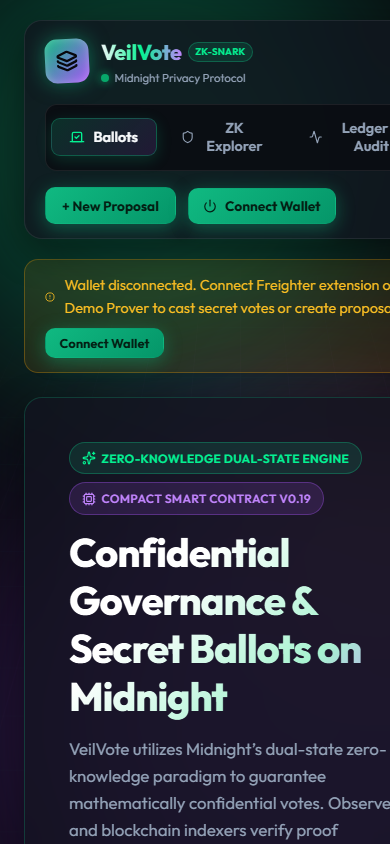
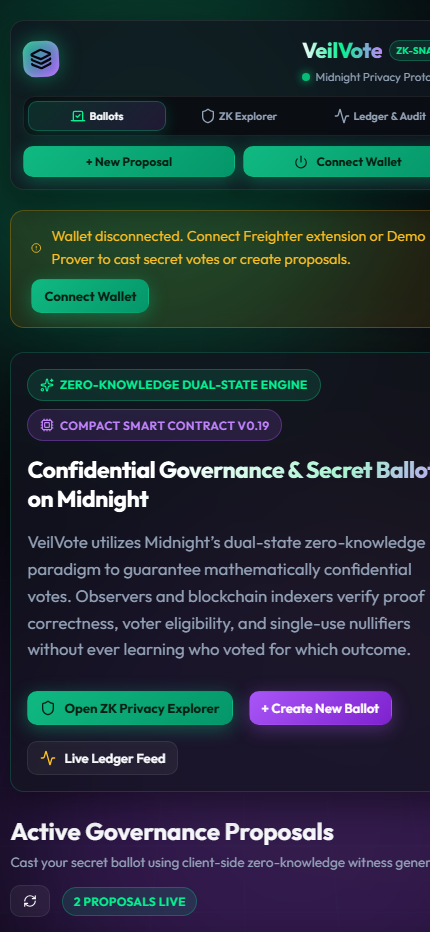
docs: add dedicated demo video walkthrough link space and fix mobile responsive screenshot formatting

diff --git a/frontend/src/index.css b/frontend/src/index.css
@@ -375,3 +375,142 @@ body {
   animation: pulseGlow 2s infinite ease-in-out;
 }
 
+/* Navbar Layout */
+.navbar-header {
+  margin: 1.25rem auto;
+  padding: 0.85rem 1.25rem;
+  display: flex;
+  align-items: center;
+  justify-content: space-between;
+  flex-wrap: wrap;
+  gap: 1rem;
+}
+
+.navbar-brand-section {
+  display: flex;
+  align-items: center;
+  gap: 0.75rem;
+  cursor: pointer;
+}
+
+.navbar-actions-section {
+  display: flex;
+  align-items: center;
+  gap: 0.75rem;
+  flex-wrap: wrap;
+}
+
+html, body {
+  overflow-x: hidden !important;
+  max-width: 100vw;
+  width: 100%;
+}
+
+#root {
+  overflow-x: hidden !important;
+  max-width: 100vw;
+  width: 100%;
+}
+
+.hero-banner-card {
+  padding: 2.75rem;
+  margin: 1.25rem 0 2rem 0;
+  position: relative;
+  overflow: hidden;
+  border: 1px solid rgba(16, 185, 129, 0.25);
+}
+
+/* Mobile Responsive Optimization */
+@media (max-width: 640px) {
+  body {
+    font-size: 14px;
+  }
+
+  .container {
+    padding-left: 0.65rem !important;
+    padding-right: 0.65rem !important;
+    width: 100% !important;
+    max-width: 100% !important;
+  }
+
+  .hero-banner-card {
+    padding: 1.15rem 0.85rem !important;
+    margin: 0.75rem 0 1.25rem 0 !important;
+  }
+
+  .glass-panel {
+    padding: 1rem !important;
+    border-radius: 14px !important;
+  }
+
+  .navbar-header {
+    display: flex !important;
+    flex-direction: column !important;
+    gap: 0.65rem !important;
+    padding: 0.75rem !important;
+  }
+
+  .navbar-brand-section {
+    display: flex !important;
+    align-items: center !important;
+    justify-content: space-between !important;
+    width: 100% !important;
+  }
+
+  .brand-icon-3d {
+    width: 36px !important;
+    height: 36px !important;
+    flex-shrink: 0;
+  }
+
+  .nav-tabs-container {
+    display: grid !important;
+    grid-template-columns: repeat(3, 1fr) !important;
+    width: 100% !important;
+    gap: 0.2rem !important;
+    padding: 0.2rem !important;
+  }
+
+  .nav-tab-btn {
+    padding: 0.4rem 0.15rem !important;
+    font-size: 0.68rem !important;
+    gap: 0.2rem !important;
+    justify-content: center !important;
+  }
+
+  .nav-tab-btn span {
+    font-size: 0.68rem !important;
+  }
+
+  .navbar-actions-section {
+    display: flex !important;
+    width: 100% !important;
+    gap: 0.5rem !important;
+  }
+
+  .navbar-actions-section button {
+    flex: 1 !important;
+    padding: 0.45rem 0.5rem !important;
+    font-size: 0.76rem !important;
+    justify-content: center !important;
+  }
+
+  .hero-banner-title {
+    font-size: 1.45rem !important;
+    line-height: 1.25 !important;
+    word-break: break-word !important;
+  }
+
+  .proposal-grid {
+    grid-template-columns: 1fr !important;
+  }
+
+  .btn {
+    padding: 0.5rem 0.75rem !important;
+    font-size: 0.82rem !important;
+  }
+}
+
+
+
+

diff --git a/frontend/src/App.tsx b/frontend/src/App.tsx
@@ -192,7 +192,7 @@ export function App() {
         {activeTab === 'proposals' && (
           <>
             {/* Hero Banner with 3D Depth */}
-            <div className="glass-panel" style={{ padding: '2.75rem', margin: '1.25rem 0 2rem 0', position: 'relative', overflow: 'hidden', border: '1px solid rgba(16, 185, 129, 0.25)' }}>
+            <div className="glass-panel hero-banner-card">
               <div style={{ position: 'relative', zIndex: 1, maxWidth: '820px' }}>
                 <div style={{ display: 'flex', alignItems: 'center', gap: '0.5rem', marginBottom: '0.85rem', flexWrap: 'wrap' }}>
                   <span className="badge badge-active" style={{ padding: '0.35rem 0.75rem' }}>
@@ -203,7 +203,7 @@ export function App() {
                   </span>
                 </div>
 
-                <h1 style={{ fontSize: '2.5rem', fontWeight: 800, letterSpacing: '-0.03em', lineHeight: 1.2, marginBottom: '1rem', background: 'linear-gradient(135deg, #ffffff 30%, #a7f3d0 70%, #c084fc 100%)', WebkitBackgroundClip: 'text', WebkitTextFillColor: 'transparent' }}>
+                <h1 className="hero-banner-title" style={{ fontSize: '2.5rem', fontWeight: 800, letterSpacing: '-0.03em', lineHeight: 1.2, marginBottom: '1rem', background: 'linear-gradient(135deg, #ffffff 30%, #a7f3d0 70%, #c084fc 100%)', WebkitBackgroundClip: 'text', WebkitTextFillColor: 'transparent' }}>
                   Confidential Governance & Secret Ballots on Midnight
                 </h1>
 
@@ -262,7 +262,7 @@ export function App() {
                   Loading Midnight ledger state...
                 </div>
               ) : (
-                <div style={{ display: 'grid', gridTemplateColumns: 'repeat(auto-fit, minmax(480px, 1fr))', gap: '1.5rem' }}>
+                <div className="proposal-grid" style={{ display: 'grid', gridTemplateColumns: 'repeat(auto-fit, minmax(min(100%, 460px), 1fr))', gap: '1.5rem' }}>
                   {proposals.map((prop) => (
                     <ProposalCard
                       key={prop.id}
@@ -287,7 +287,7 @@ export function App() {
             </div>
 
             {/* Quick Explore Banner Cards */}
-            <div style={{ display: 'grid', gridTemplateColumns: 'repeat(auto-fit, minmax(350px, 1fr))', gap: '1.25rem', marginTop: '1rem' }}>
+            <div style={{ display: 'grid', gridTemplateColumns: 'repeat(auto-fit, minmax(min(100%, 300px), 1fr))', gap: '1.25rem', marginTop: '1rem' }}>
               <div
                 className="glass-panel"
                 style={{ padding: '1.5rem', cursor: 'pointer', border: '1px solid rgba(168, 85, 247, 0.25)' }}

diff --git a/frontend/src/components/Navbar.tsx b/frontend/src/components/Navbar.tsx
@@ -47,18 +47,18 @@ export const Navbar: React.FC<NavbarProps> = ({
 
   return (
     <>
-      <header className="glass-panel" style={{ margin: '1.25rem auto', padding: '0.85rem 1.25rem', display: 'flex', alignItems: 'center', justifyContent: 'space-between', flexWrap: 'wrap', gap: '1rem' }}>
+      <header className="glass-panel navbar-header">
         
         {/* Brand with 3D Icon */}
-        <div style={{ display: 'flex', alignItems: 'center', gap: '0.75rem', cursor: 'pointer' }} onClick={() => onTabChange('proposals')}>
+        <div className="navbar-brand-section" onClick={() => onTabChange('proposals')}>
           <div className="brand-icon-3d">
             <Layers size={22} color="#07080d" strokeWidth={2.5} />
           </div>
           <div>
             <div style={{ display: 'flex', alignItems: 'center', gap: '0.4rem' }}>
-              <h1 style={{ fontSize: '1.35rem', fontWeight: 800, letterSpacing: '-0.02em', background: 'linear-gradient(90deg, #f8fafc, #05f292, #c084fc)', WebkitBackgroundClip: 'text', WebkitTextFillColor: 'transparent', margin: 0 }}>
+              <span style={{ fontSize: '1.35rem', fontWeight: 800, letterSpacing: '-0.02em', background: 'linear-gradient(90deg, #f8fafc, #05f292, #c084fc)', WebkitBackgroundClip: 'text', WebkitTextFillColor: 'transparent', margin: 0 }}>
                 VeilVote
-              </h1>
+              </span>
               <span className="badge badge-active" style={{ fontSize: '0.6rem', padding: '0.1rem 0.4rem' }}>
                 ZK-SNARK
               </span>
@@ -103,7 +103,7 @@ export const Navbar: React.FC<NavbarProps> = ({
         </div>
 
         {/* Controls */}
-        <div style={{ display: 'flex', alignItems: 'center', gap: '0.75rem', flexWrap: 'wrap' }}>
+        <div className="navbar-actions-section">
           <button onClick={onOpenCreateModal} className="btn btn-primary" id="btn-create-proposal" style={{ padding: '0.55rem 1rem', fontSize: '0.85rem' }}>
             + New Proposal
           </button>

diff --git a/README.md b/README.md
@@ -29,11 +29,21 @@
 | **1. Public GitHub Repository** | [github.com/ayush-tech3/midnight-privacy-dapp](https://github.com/ayush-tech3/midnight-privacy-dapp) | ✅ Active & Public |
 | **2. Minimum Meaningful Commits** | [15+ Commits on `main`](https://github.com/ayush-tech3/midnight-privacy-dapp/commits/main) | ✅ 15+ Commits |
 | **3. Live Production Application** | **[midnightprivacydevlop.netlify.app](https://midnightprivacydevlop.netlify.app/)** | ✅ Live & Production Ready |
-| **4. Automated Tests Passing (3+ Required)** | [8/8 Passing Tests Table ⬇](#-automated-test-suite-8-passing-tests) | ✅ 8 Tests Passing (100%) |
-| **5. CI/CD Workflow with Passing Runs** | [`.github/workflows/ci.yml`](.github/workflows/ci.yml) | ✅ GitHub Actions Passing |
-| **6. Privacy Model Whitepaper** | [`docs/PRIVACY_MODEL.md`](docs/PRIVACY_MODEL.md) | ✅ Complete Privacy Analysis |
-| **7. Product Proposal** | [`docs/PRODUCT_PROPOSAL.md`](docs/PRODUCT_PROPOSAL.md) | ✅ Full Approved Proposal |
-| **8. Multi-Wallet Integration** | Real Freighter Extension + Demo Shielded Prover | ✅ Fully Integrated |
+| **4. Demo Video Walkthrough (1-Min)** | [Watch 1080p Demo Video (YouTube) ⬇](#-demo-video-walkthrough) | 🎬 [Paste Video Link Here] |
+| **5. Automated Tests Passing (3+ Required)** | [8/8 Passing Tests Table ⬇](#-automated-test-suite-8-passing-tests) | ✅ 8 Tests Passing (100%) |
+| **6. CI/CD Workflow with Passing Runs** | [`.github/workflows/ci.yml`](.github/workflows/ci.yml) | ✅ GitHub Actions Passing |
+| **7. Privacy Model Whitepaper** | [`docs/PRIVACY_MODEL.md`](docs/PRIVACY_MODEL.md) | ✅ Complete Privacy Analysis |
+| **8. Product Proposal** | [`docs/PRODUCT_PROPOSAL.md`](docs/PRODUCT_PROPOSAL.md) | ✅ Full Approved Proposal |
+| **9. Multi-Wallet Integration** | Real Freighter Extension + Demo Shielded Prover | ✅ Fully Integrated |
+
+---
+
+## 🎥 Demo Video Walkthrough
+
+[![Watch Demo Video](https://img.shields.io/badge/▶_Watch_Demo_Video-YouTube-red?style=for-the-badge&logo=youtube&logoColor=white)](https://youtu.be/YOUR_DEMO_VIDEO_LINK_HERE)
+
+> 🎬 **Direct Demo Video Link:**
+> **[https://youtu.be/YOUR_DEMO_VIDEO_LINK_HERE](https://youtu.be/YOUR_DEMO_VIDEO_LINK_HERE)** *(Paste your recorded YouTube or Loom video link here)*
 
 ---
 
@@ -42,8 +52,11 @@
 ### 1. 🖥 Product UI (Live Production Dashboard)
 ![Product UI](screenshots/product-ui.png)
 
-### 2. 📱 Mobile Responsive View (Smartphone Interface)
-![Mobile Responsive Dashboard](screenshots/mobile-responsive-ui.png)
+### 2. 📱 Mobile Responsive View (Smartphone Working Interface)
+<div align="center">
+  <img src="screenshots/mobile-responsive-ui.png" alt="VeilVote Smartphone Working Interface" width="380" style="border-radius: 20px; box-shadow: 0 12px 40px rgba(0,0,0,0.7);" />
+  <p><em>📱 Live mobile responsive view on smartphone viewport</em></p>
+</div>
 
 ### 3. 🛡 ZK Privacy & Merkle Proof Explorer
 ![ZK Privacy Explorer](screenshots/privacy-explorer-ui.png)
